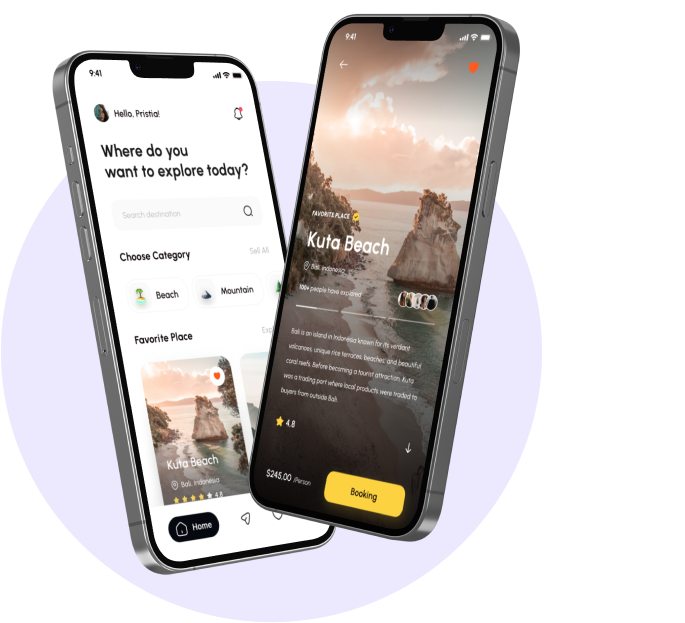
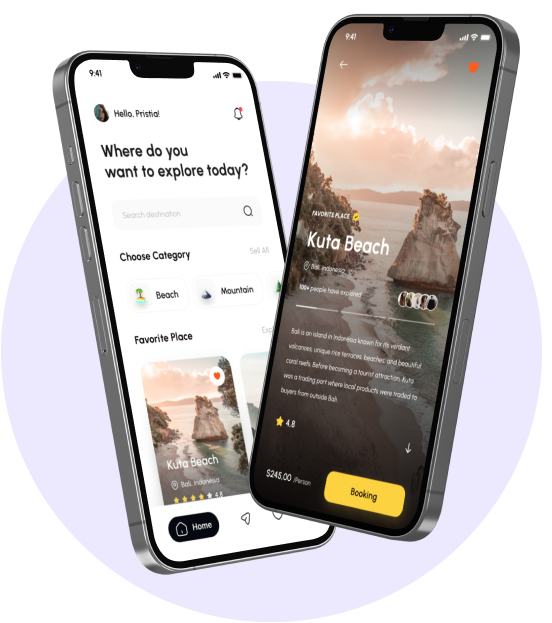
app design page responsive

diff --git a/src/components/AppDevelopmentProcessSection.js b/src/components/AppDevelopmentProcessSection.js
@@ -11,7 +11,7 @@ const AppDevelopmentProcessSection = () => {
                 </div>
 
                 <div className="row mt-5">
-                    <div className="col-md-5">
+                    <div className="col-lg-5">
                         <div className='text-end mt-3'>
                             <h1 className='steps-heading mb-4'>Step 1</h1>
                             <h1 className='mb-3'>Blueprinting</h1>
@@ -19,16 +19,35 @@ const AppDevelopmentProcessSection = () => {
                             </p>
                         </div>
 
-                        <div className='text-end step-3'>
+                        <div className='d-block d-lg-none'>
+                            <h1 className='steps-heading mb-4'>Step 2</h1>
+                            <h1 className='mb-3'> UI/UX Design</h1>
+                            <p>Once we have a solid plan in place, our design team will create wireframes and mockups to visualize how your app will look and feel, keeping the focus on user experience (UX) and user interface (UI). At this stage, your feedback will be highly acknowledgeable which will help us refine the app before we start the development process.</p>
+                        </div>
+
+                        <div className='text-end step-3 d-none d-lg-block'>
                             <h1 className='steps-heading mb-4'>Step 3</h1>
                             <h1 className='mb-3'>Development</h1>
                             <p>Our expert developers will start coding your app, integrating all the necessary features, and setting up the back-end infrastructure. Our team will keep you informed at every stage of the process, ensuring you're always in the loop. We will conduct regular testing to minimize the possibility of any errors and maintain the highest quality standards. </p>
                         </div>
+
+                        <div className='text-end d-block d-lg-none'>
+                            <h1 className='steps-heading mb-4'>Step 3</h1>
+                            <h1 className='mb-3'>Development</h1>
+                            <p>Our expert developers will start coding your app, integrating all the necessary features, and setting up the back-end infrastructure. Our team will keep you informed at every stage of the process, ensuring you're always in the loop. We will conduct regular testing to minimize the possibility of any errors and maintain the highest quality standards. </p>
+                        </div>
+
+                        <div className='d-block d-lg-none'>
+                            <h1 className='steps-heading mb-4'>Step 4</h1>
+                            <h1 className='mb-3'>Testing & Launch</h1>
+                            <p>Our developers will conduct thorough testing to ensure your app functions smoothly and meets all design specifications. Your app will run on different devices for usability testing and performance checks. Once everything is in perfect shape, we'll prepare to launch your app on the relevant app stores, like Google Play or the Apple App Store.
+                            </p>
+                        </div>
                     </div>
-                    <div className="col-md-1">
+                    <div className="col-md-auto d-none d-lg-block">
                         <img src={iconWithLinesImg} />
                     </div>
-                    <div className="col-md-5">
+                    <div className="col-lg-5 d-none d-lg-block">
                         <div className='step-2'>
                             <h1 className='steps-heading mb-4'>Step 2</h1>
                             <h1 className='mb-3'> UI/UX Design</h1>
@@ -38,7 +57,7 @@ const AppDevelopmentProcessSection = () => {
                         <div className='step-4'>
                             <h1 className='steps-heading mb-4'>Step 4</h1>
                             <h1 className='mb-3'>Testing & Launch</h1>
-                            <p>Our developers will conduct thorough testing to ensure your app functions smoothly and meets all design specifications. Your app will run on different devices for usability testing and performance checks. Once everything is in perfect shape, we’ll prepare to launch your app on the relevant app stores, like Google Play or the Apple App Store.
+                            <p>Our developers will conduct thorough testing to ensure your app functions smoothly and meets all design specifications. Your app will run on different devices for usability testing and performance checks. Once everything is in perfect shape, we'll prepare to launch your app on the relevant app stores, like Google Play or the Apple App Store.
                             </p>
                         </div>
                     </div>

diff --git a/src/components/Formsection.js b/src/components/Formsection.js
@@ -35,6 +35,12 @@ const GetStartedSection = () => {
 
     const validateEmail = (email) => {
         const emailRegex = /^[^\s@]+@[^\s@]+\.[^\s@]+$/;
+        const emailField = document.querySelector('.get-started-section input[name=email]');
+        if (!emailRegex.test(email)) {
+            emailField.classList.add('is-invalid');
+        } else {
+            emailField.classList.remove('is-invalid');
+        }
         return emailRegex.test(email);
     };
 
@@ -44,32 +50,6 @@ const GetStartedSection = () => {
             ...formData,
             [name]: value,
         });
-        // Validation feedback
-        // if (name === 'name') {
-        //     const nameField = document.querySelector('.get-started-section input[name=name]');
-        //     if (!validateName(value)) {
-        //         nameField.classList.add('is-invalid');
-        //     } else {
-        //         nameField.classList.remove('is-invalid');
-        //     }
-        // }
-        // if (name === 'phone') {
-        //     const phoneField = document.querySelector('.get-started-section input[name=phone]');
-        //     if (!validatePhone(value)) {
-        //         phoneField.classList.add('is-invalid');
-        //     } else {
-        //         phoneField.classList.remove('is-invalid');
-        //     }
-        // }
-        // if (name === 'email') {
-        //     const emailField = document.querySelector('.get-started-section input[name=email]');
-        //     if (!validateEmail(value)) {
-        //         emailField.classList.add('is-invalid');
-        //     } else {
-        //         emailField.classList.remove('is-invalid');
-        //     }
-        // }
-
     };
     const validateForm = () => {
         const isNameValid = validateName(formData.name);
@@ -125,7 +105,7 @@ const GetStartedSection = () => {
                                         name="name"
                                         placeholder="Full Name*"
                                         value={formData.name}
-                                        onInput={() => {validateName(formData.name)}}
+                                        onInput={() => { validateName(formData.name) }}
                                         onChange={handleChange}
                                         required
                                     />
@@ -140,7 +120,7 @@ const GetStartedSection = () => {
                                         placeholder="Contact Number*"
                                         name="phone"
                                         value={formData.phone}
-                                        onInput={() => {validatePhone(formData.phone)}}
+                                        onInput={() => { validatePhone(formData.phone) }}
                                         onChange={handleChange}
                                         required
                                     />
@@ -156,6 +136,7 @@ const GetStartedSection = () => {
                                         name="email"
                                         placeholder="Email Address*"
                                         value={formData.email}
+                                        onInput={() => { validateEmail(formData.email) }}
                                         onChange={handleChange}
                                         required
                                     />

diff --git a/src/components/EngagingUiCarouselSection.js b/src/components/EngagingUiCarouselSection.js
@@ -39,11 +39,12 @@ const EngagingUiCarouselSection = () => {
                         </div>
                     </div>
 
-                    <div className="row position-relative">
+                    <div className="position-relative">
                         <Swiper
                             spaceBetween={30}
                             navigation={true} // Enable default navigation
-                            autoplay={{ delay: 2000, disableOnInteraction: false }} // Autoplay settings
+                            // autoplay={{ delay: 2000, disableOnInteraction: false }} // Autoplay settings
+                            autoplay={false}
                             modules={[Navigation, Autoplay]} // Add Navigation and Autoplay to modules
                             breakpoints={{
                                 1200: { slidesPerView: 3 }, // Show 3 slides on large screens
@@ -52,27 +53,27 @@ const EngagingUiCarouselSection = () => {
                             }}
                         >
                             <SwiperSlide>
-                                <div className="col-12 mb-4">
+                                <div className="mb-4">
                                     <img src={image1} className="our-work-img img-fluid" />
                                 </div>
                             </SwiperSlide>
                             <SwiperSlide>
-                                <div className="col-12 mb-4">
+                                <div className="mb-4">
                                     <img src={image2} className="our-work-img img-fluid" />
                                 </div>
                             </SwiperSlide>
                             <SwiperSlide>
-                                <div className="col-12 mb-4">
+                                <div className="mb-4">
                                     <img src={image3} className="our-work-img img-fluid" />
                                 </div>
                             </SwiperSlide>
                             <SwiperSlide>
-                                <div className="col-12 mb-4">
+                                <div className="mb-4">
                                     <img src={image4} className="our-work-img img-fluid" />
                                 </div>
                             </SwiperSlide>
                             <SwiperSlide>
-                                <div className="col-12 mb-4">
+                                <div className="mb-4">
                                     <img src={image5} className="our-work-img img-fluid" />
                                 </div>
                             </SwiperSlide>

diff --git a/src/App.js b/src/App.js
@@ -24,24 +24,23 @@ import Countdown from './pages/Countdown';
 const App = () => {
     return (
         <HelmetProvider>
-        <Router>
-            <Routes>
-                <Route path="/" element={<Home />} />
-                <Route path="/about-us" element={<About />} />
-                <Route path="/app-design" element={<AppPage />} />
-                <Route path="/contact-us" element={<ContactUs />} />
-                <Route path="/logo-design" element={<LogoDesign />} />
-                <Route path="/smm" element={<SMM />} />
-                <Route path="/seo" element={<Seo />} />
-                <Route path="/stationery" element={<Stationary />} />
-                <Route path="/lp" element={<Lp/>} />
-                <Route path="/privacy-policy" element={<PrivacyPolicy />} />
-                <Route path="/terms-condition" element={<TermsCondition />} />
-                <Route path="/thank-you" element={<ThankYouPage />} />
-                <Route path="/black-friday" element={<Countdown />} />
-
-            </Routes>
-        </Router>
+            <Router>
+                <Routes>
+                    <Route path="/" element={<Home />} />
+                    <Route path="/about-us" element={<About />} />
+                    <Route path="/app-design" element={<AppPage />} />
+                    <Route path="/contact-us" element={<ContactUs />} />
+                    <Route path="/logo-design" element={<LogoDesign />} />
+                    <Route path="/smm" element={<SMM />} />
+                    <Route path="/seo" element={<Seo />} />
+                    <Route path="/stationery" element={<Stationary />} />
+                    <Route path="/lp" element={<Lp />} />
+                    <Route path="/privacy-policy" element={<PrivacyPolicy />} />
+                    <Route path="/terms-condition" element={<TermsCondition />} />
+                    <Route path="/thank-you" element={<ThankYouPage />} />
+                    <Route path="/black-friday" element={<Countdown />} />
+                </Routes>
+            </Router>
         </HelmetProvider>
     );
 };

diff --git a/src/components/EngagingUiSection.js b/src/components/EngagingUiSection.js
@@ -1,7 +1,7 @@
 import listImage from "../images/list-item.png"
 import iphonesImage from "../images/iphones.png"
 
-const EngagingUISection = ({updatePopupTitle}) => {
+const EngagingUISection = ({ updatePopupTitle }) => {
     return (
         <section className="my-5 py-5 engaging-ui-section">
             <div className="container">
@@ -40,7 +40,7 @@ const EngagingUISection = ({updatePopupTitle}) => {
                         </div>
                     </div>
                     <div className="col-md-6">
-                        <img src={iphonesImage} />
+                        <img src={iphonesImage} className="img-fluid" />
                     </div>
                 </div>
             </div>

diff --git a/src/App.css b/src/App.css
@@ -1069,7 +1069,7 @@ img.icon-image {
 
 .app-dev-process-section
 .about-heading {
-    width: 560px;
+    /* width: 560px; */
     margin: auto;
 }
 
